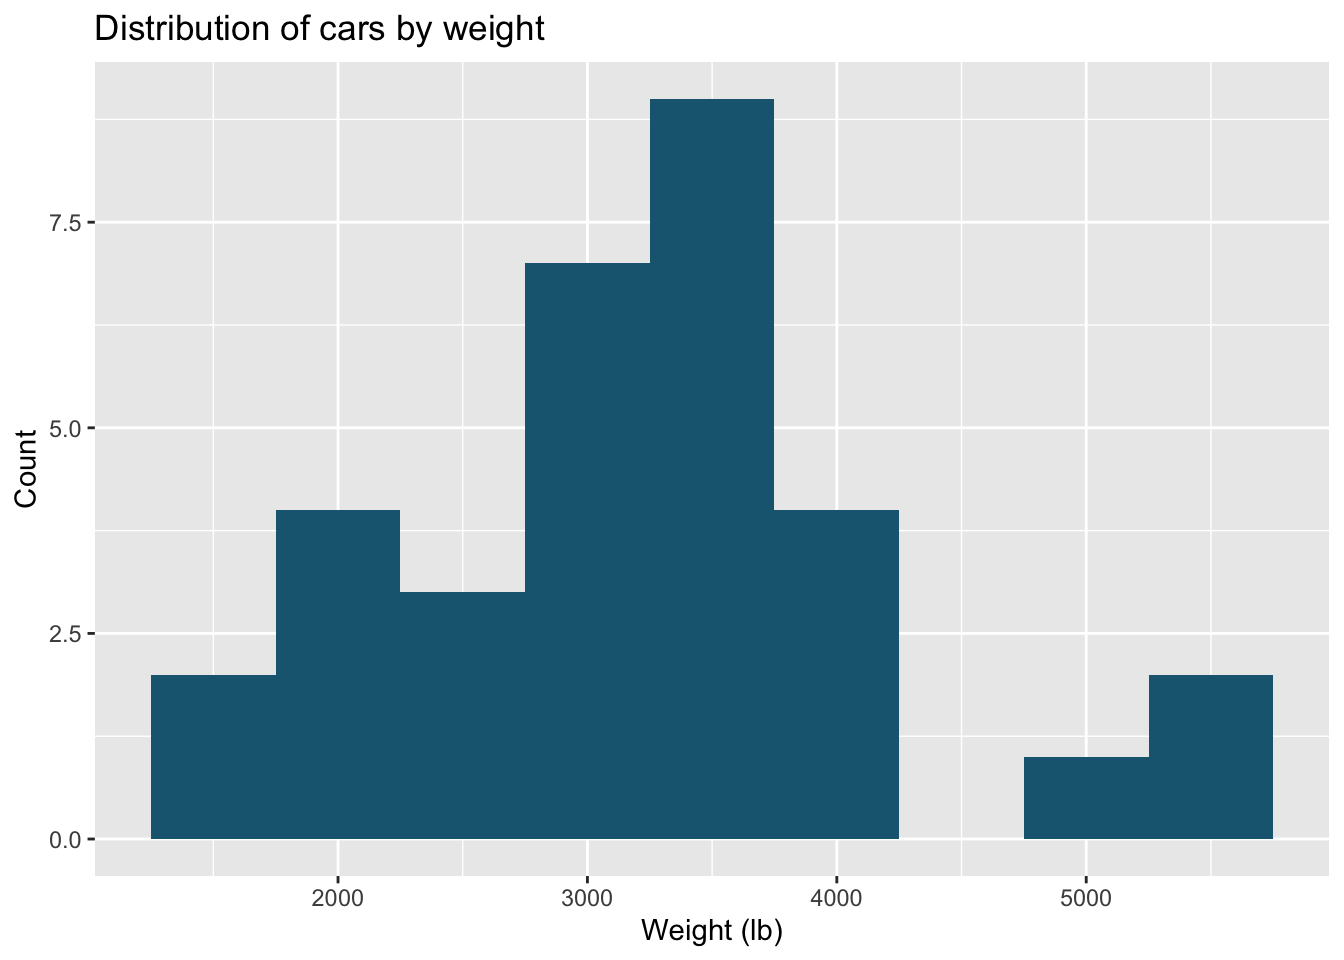
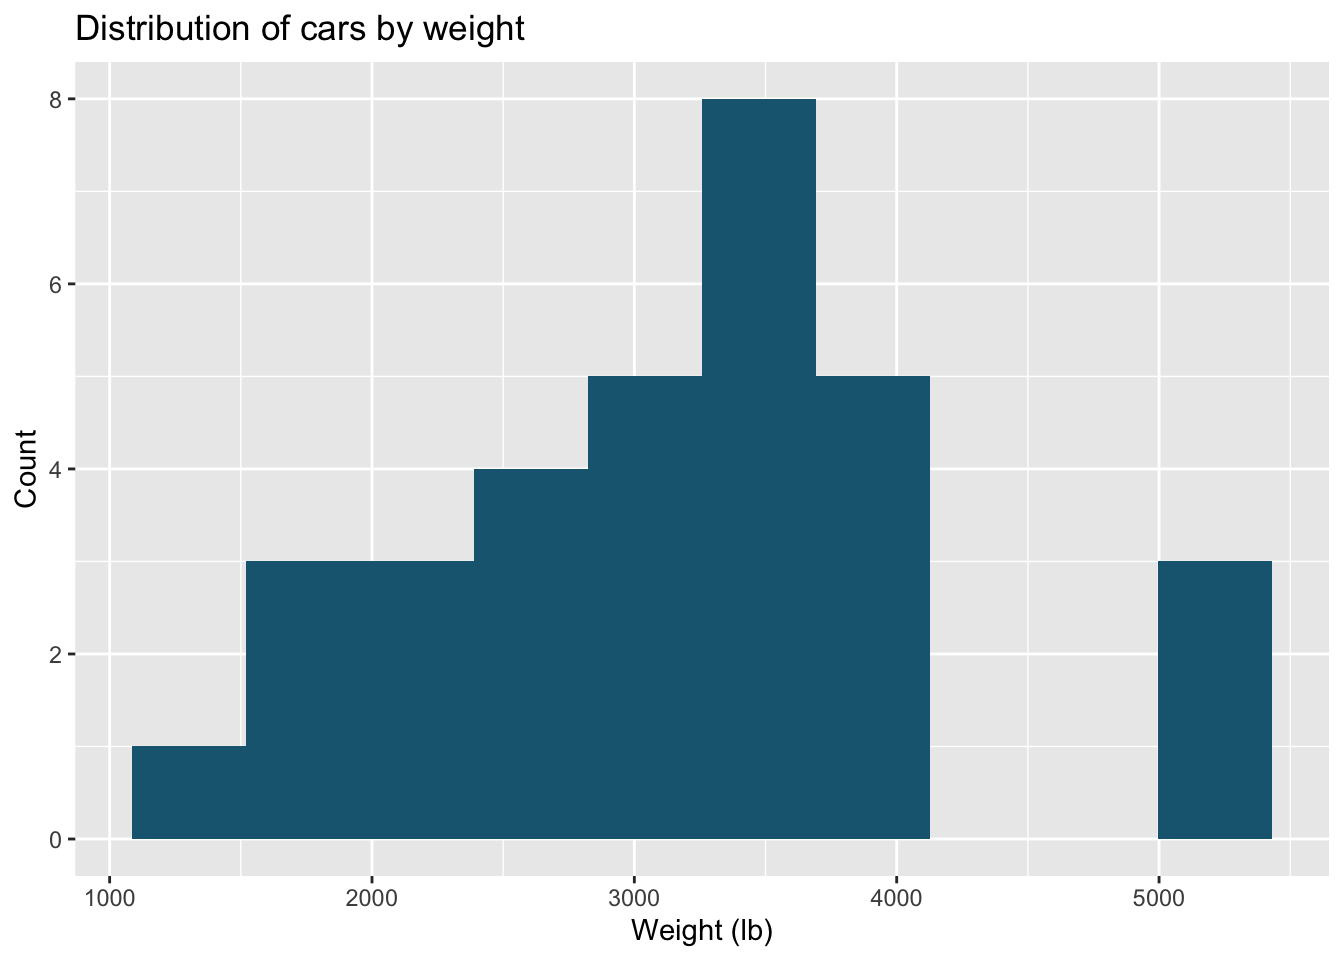
Day 2 AM

diff --git a/demo-vis-techniques.html b/demo-vis-techniques.html
@@ -502,7 +502,7 @@ div.tocify {
 <div class="sourceCode"><pre class="sourceCode r"><code class="sourceCode r">mtcars <span class="op">%&gt;%</span>
 <span class="st">  </span><span class="kw">ggplot</span>(<span class="kw">aes</span>(<span class="dt">x =</span> cyl)) <span class="op">+</span><span class="st"> </span>
 <span class="st">    </span><span class="kw">geom_bar</span>()</code></pre></div>
-<p><img src="demo-vis-techniques_files/figure-html/unnamed-chunk-49-1.png" width="672" /></p>
+<p><img src="demo-vis-techniques_files/figure-html/unnamed-chunk-2-1.png" width="672" /></p>
 </div>
 <div id="a-slightly-prettier-bar-chart-with-color-and-labels" class="section level4">
 <h4>A slightly prettier Bar Chart with color and labels</h4>
@@ -518,7 +518,7 @@ div.tocify {
 <span class="st">  </span><span class="kw">ggtitle</span>(<span class="st">&quot;Count of cars by cylinders&quot;</span>) <span class="op">+</span><span class="st">  </span><span class="co"># Add a title</span>
 <span class="st">  </span>
 <span class="st">  </span><span class="kw">guides</span>(<span class="dt">fill =</span> <span class="ot">FALSE</span>)                     <span class="co"># Remove the legend</span></code></pre></div>
-<p><img src="demo-vis-techniques_files/figure-html/unnamed-chunk-50-1.png" width="672" /></p>
+<p><img src="demo-vis-techniques_files/figure-html/unnamed-chunk-3-1.png" width="672" /></p>
 </div>
 </div>
 <div id="histogram" class="section level3">
@@ -534,20 +534,20 @@ div.tocify {
 <div class="sourceCode"><pre class="sourceCode r"><code class="sourceCode r"><span class="kw">ggplot</span>(mtcars, <span class="kw">aes</span>(<span class="dt">x =</span> wt)) <span class="op">+</span><span class="st"> </span>
 <span class="st">  </span><span class="kw">geom_histogram</span>()</code></pre></div>
 <pre><code>## `stat_bin()` using `bins = 30`. Pick better value with `binwidth`.</code></pre>
-<p><img src="demo-vis-techniques_files/figure-html/unnamed-chunk-51-1.png" width="672" /></p>
+<p><img src="demo-vis-techniques_files/figure-html/unnamed-chunk-4-1.png" width="672" /></p>
 </div>
 <div id="a-better-histogram-with-scaling-10-bins-labels-and-color" class="section level4">
 <h4>A better Histogram with scaling, 10 bins, labels, and color</h4>
 <div class="sourceCode"><pre class="sourceCode r"><code class="sourceCode r"><span class="kw">ggplot</span>(mtcars, <span class="kw">aes</span>(<span class="dt">x =</span> wt<span class="op">*</span><span class="dv">1000</span>)) <span class="op">+</span><span class="st">             </span><span class="co"># Scale wt to lbs</span>
 <span class="st">  </span>
-<span class="st">  </span><span class="kw">geom_histogram</span>(<span class="dt">binwidth =</span> <span class="dv">500</span>,               <span class="co"># Change the number of bins to 10</span>
-                 <span class="dt">fill =</span> <span class="kw">rgb</span>(<span class="fl">0.1</span>, <span class="fl">0.4</span>, <span class="fl">0.5</span>)) <span class="op">+</span><span class="st">  </span><span class="co">#    and fill with a more aesthetically-pleasing color</span>
+<span class="st">  </span><span class="kw">geom_histogram</span>(<span class="dt">bins =</span> <span class="dv">10</span>,                    <span class="co"># Change the number of bins to 10</span>
+                 <span class="dt">fill =</span> <span class="kw">rgb</span>(<span class="fl">0.1</span>, <span class="fl">0.4</span>, <span class="fl">0.5</span>)) <span class="op">+</span><span class="st">  </span><span class="co">#    and fill with more aesthetically-pleasing color</span>
 <span class="st">  </span>
 <span class="st">  </span><span class="kw">xlab</span>(<span class="st">&quot;Weight (lb)&quot;</span>) <span class="op">+</span><span class="st">                        </span><span class="co"># Label the axes</span>
 <span class="st">  </span><span class="kw">ylab</span>(<span class="st">&quot;Count&quot;</span>) <span class="op">+</span><span class="st">                             </span>
 <span class="st">  </span>
 <span class="st">  </span><span class="kw">ggtitle</span>(<span class="st">&quot;Distribution of cars by weight&quot;</span>)    <span class="co"># Add a title</span></code></pre></div>
-<p><img src="demo-vis-techniques_files/figure-html/unnamed-chunk-52-1.png" width="672" /></p>
+<p><img src="demo-vis-techniques_files/figure-html/unnamed-chunk-5-1.png" width="672" /></p>
 </div>
 </div>
 <div id="boxplot" class="section level3">
@@ -563,12 +563,13 @@ div.tocify {
 <h4>A simple boxplot in <code>ggplot2</code></h4>
 <div class="sourceCode"><pre class="sourceCode r"><code class="sourceCode r"><span class="kw">ggplot</span>(mtcars, <span class="kw">aes</span>(<span class="dt">x =</span> <span class="kw">as.factor</span>(cyl), <span class="dt">y =</span> mpg)) <span class="op">+</span><span class="st"> </span>
 <span class="st">  </span><span class="kw">geom_boxplot</span>()</code></pre></div>
-<p><img src="demo-vis-techniques_files/figure-html/unnamed-chunk-53-1.png" width="672" /></p>
+<p><img src="demo-vis-techniques_files/figure-html/unnamed-chunk-6-1.png" width="672" /></p>
 </div>
 <div id="a-better-boxplot-with-original-points-semi-transparent-fill-and-labels" class="section level4">
 <h4>A better boxplot with original points, semi-transparent fill, and labels</h4>
-<div class="sourceCode"><pre class="sourceCode r"><code class="sourceCode r"><span class="kw">library</span>(ggpubr) <span class="co"># Useful library for making &quot;publication-ready&quot; graphics:</span>
-                <span class="co"># We&#39;ll use the stat_compare_means(...) function to add significance</span>
+<div class="sourceCode"><pre class="sourceCode r"><code class="sourceCode r"><span class="kw">library</span>(ggpubr) <span class="co"># Useful library for making &quot;publication-ready&quot; graphics:</span></code></pre></div>
+<pre><code>## Warning: package &#39;ggpubr&#39; was built under R version 3.6.2</code></pre>
+<div class="sourceCode"><pre class="sourceCode r"><code class="sourceCode r">                <span class="co"># We&#39;ll use the stat_compare_means(...) function to add significance</span>
 
 <span class="kw">ggplot</span>(mtcars, <span class="kw">aes</span>(<span class="dt">x =</span> <span class="kw">as.factor</span>(cyl), <span class="dt">y =</span> mpg)) <span class="op">+</span><span class="st"> </span>
 <span class="st">  </span>
@@ -594,7 +595,10 @@ div.tocify {
                                          <span class="kw">c</span>(<span class="st">&quot;6&quot;</span>,<span class="st">&quot;8&quot;</span>)),
                       <span class="dt">method =</span> <span class="st">&quot;t.test&quot;</span>,
                       <span class="kw">aes</span>(<span class="dt">label =</span> ..p.signif..))</code></pre></div>
-<p><img src="demo-vis-techniques_files/figure-html/unnamed-chunk-54-1.png" width="672" /></p>
+<pre><code>## Warning: Using `as.character()` on a quosure is deprecated as of rlang 0.3.0.
+## Please use `as_label()` or `as_name()` instead.
+## This warning is displayed once per session.</code></pre>
+<p><img src="demo-vis-techniques_files/figure-html/unnamed-chunk-7-1.png" width="672" /></p>
 </div>
 </div>
 <div id="scatterplot" class="section level3">
@@ -609,7 +613,7 @@ div.tocify {
 <h4>A simple scatterplot in <code>ggplot2</code></h4>
 <div class="sourceCode"><pre class="sourceCode r"><code class="sourceCode r"><span class="kw">ggplot</span>(mtcars, <span class="kw">aes</span>(<span class="dt">x =</span> wt, <span class="dt">y =</span> mpg)) <span class="op">+</span><span class="st"> </span>
 <span class="st">  </span><span class="kw">geom_point</span>()</code></pre></div>
-<p><img src="demo-vis-techniques_files/figure-html/unnamed-chunk-55-1.png" width="672" /></p>
+<p><img src="demo-vis-techniques_files/figure-html/unnamed-chunk-8-1.png" width="672" /></p>
 </div>
 <div id="a-better-scatterplot-with-scaled-values-shapes-color-and-labels" class="section level4">
 <h4>A better scatterplot with scaled values, shapes, color, and labels</h4>
@@ -631,7 +635,7 @@ div.tocify {
        <span class="dt">y =</span> <span class="st">&quot;Fuel economy (mpg)&quot;</span>) <span class="op">+</span><span class="st">                  </span>
 <span class="st">  </span>
 <span class="st">   </span><span class="kw">ggtitle</span>(<span class="st">&quot;Weight vs. fuel economy by # cylinders&quot;</span>) <span class="co"># Add a title</span></code></pre></div>
-<p><img src="demo-vis-techniques_files/figure-html/unnamed-chunk-56-1.png" width="672" /></p>
+<p><img src="demo-vis-techniques_files/figure-html/unnamed-chunk-9-1.png" width="672" /></p>
 </div>
 </div>
 <div id="scatterplot-matrix-splom" class="section level3">
@@ -643,12 +647,16 @@ div.tocify {
 <div id="a-simple-splom-using-pairs" class="section level4">
 <h4>A simple SPLOM using <code>pairs()</code></h4>
 <div class="sourceCode"><pre class="sourceCode r"><code class="sourceCode r"><span class="kw">pairs</span>(<span class="op">~</span><span class="st"> </span>mpg <span class="op">+</span><span class="st"> </span>wt <span class="op">+</span><span class="st"> </span>disp, <span class="dt">data =</span> mtcars)</code></pre></div>
-<p><img src="demo-vis-techniques_files/figure-html/unnamed-chunk-57-1.png" width="672" /></p>
+<p><img src="demo-vis-techniques_files/figure-html/unnamed-chunk-10-1.png" width="672" /></p>
 </div>
 <div id="a-better-splom-using-ggally" class="section level4">
 <h4>A better SPLOM using <code>GGally</code></h4>
-<div class="sourceCode"><pre class="sourceCode r"><code class="sourceCode r"><span class="kw">library</span>(GGally) <span class="co"># Useful library that extends some of ggplot2&#39;s functionality</span>
-                <span class="co"># We&#39;ll use the ggpairs(...) function to make a classy SPLOM</span>
+<div class="sourceCode"><pre class="sourceCode r"><code class="sourceCode r"><span class="kw">library</span>(GGally) <span class="co"># Useful library that extends some of ggplot2&#39;s functionality</span></code></pre></div>
+<pre><code>## Warning: package &#39;GGally&#39; was built under R version 3.6.2</code></pre>
+<pre><code>## Registered S3 method overwritten by &#39;GGally&#39;:
+##   method from   
+##   +.gg   ggplot2</code></pre>
+<div class="sourceCode"><pre class="sourceCode r"><code class="sourceCode r">                <span class="co"># We&#39;ll use the ggpairs(...) function to make a classy SPLOM</span>
 
 <span class="kw">ggpairs</span>(mtcars, 
         <span class="dt">columns =</span> <span class="kw">c</span>(<span class="st">&quot;mpg&quot;</span>,<span class="st">&quot;disp&quot;</span>,<span class="st">&quot;hp&quot;</span>),         <span class="co"># Select specific columns to compare</span>
@@ -661,7 +669,7 @@ div.tocify {
             <span class="dt">alpha =</span> <span class="fl">0.4</span>)) <span class="op">+</span><span class="st">                    </span><span class="co"># Set to semi-transparent</span>
 <span class="st">  </span>
 <span class="st">  </span><span class="kw">ggtitle</span>(<span class="st">&quot;Fuel economy vs. displacement vs. horsepower by # cylinders&quot;</span>)  <span class="co"># Add a title</span></code></pre></div>
-<p><img src="demo-vis-techniques_files/figure-html/unnamed-chunk-58-1.png" width="672" /></p>
+<p><img src="demo-vis-techniques_files/figure-html/unnamed-chunk-11-1.png" width="672" /></p>
 </div>
 </div>
 <div id="line-chart" class="section level3">
@@ -682,13 +690,13 @@ arbuthnot &lt;-<span class="st"> </span><span class="kw">read.csv</span>(<span c
 arbuthnot <span class="op">%&gt;%</span>
 <span class="kw">ggplot</span>(<span class="kw">aes</span>(<span class="dt">x =</span> year, <span class="dt">y =</span> total)) <span class="op">+</span>
 <span class="st">  </span><span class="kw">geom_line</span>()</code></pre></div>
-<p><img src="demo-vis-techniques_files/figure-html/unnamed-chunk-60-1.png" width="672" /></p>
+<p><img src="demo-vis-techniques_files/figure-html/unnamed-chunk-13-1.png" width="672" /></p>
 </div>
 <div id="a-better-line-chart-built-with-tidy-data" class="section level4">
 <h4>A better line chart, built with tidy data</h4>
-<div class="sourceCode"><pre class="sourceCode r"><code class="sourceCode r"><span class="kw">library</span>(tidyr)
-
-<span class="co"># First, let&#39;s tidy up our data so it&#39;s tall instead of wide</span>
+<div class="sourceCode"><pre class="sourceCode r"><code class="sourceCode r"><span class="kw">library</span>(tidyr)</code></pre></div>
+<pre><code>## Warning: package &#39;tidyr&#39; was built under R version 3.6.2</code></pre>
+<div class="sourceCode"><pre class="sourceCode r"><code class="sourceCode r"><span class="co"># First, let&#39;s tidy up our data so it&#39;s tall instead of wide</span>
 arbuthnot_tidy &lt;-<span class="st"> </span>arbuthnot <span class="op">%&gt;%</span>
 <span class="st">  </span><span class="kw">select</span>(<span class="op">-</span>total) <span class="op">%&gt;%</span>
 <span class="st">  </span><span class="kw">pivot_longer</span>(<span class="dt">names_to =</span> <span class="st">&quot;gender&quot;</span>, <span class="dt">values_to =</span> <span class="st">&quot;count&quot;</span>, <span class="op">-</span>year)
@@ -702,7 +710,7 @@ arbuthnot_tidy &lt;-<span class="st"> </span>arbuthnot <span class="op">%&gt;%</
        <span class="dt">x =</span> <span class="st">&quot;Year&quot;</span>,                                <span class="co"># Label the axes</span>
        <span class="dt">y =</span> <span class="st">&quot;Number of records&quot;</span>) <span class="op">+</span><span class="st">                 </span>
 <span class="st">  </span><span class="kw">ggtitle</span>(<span class="st">&quot;Dr. Arbuthnot&#39;s Baptism Records from 1629-1710 (by Gender)&quot;</span>) <span class="co"># Add a title</span></code></pre></div>
-<p><img src="demo-vis-techniques_files/figure-html/unnamed-chunk-61-1.png" width="672" /></p>
+<p><img src="demo-vis-techniques_files/figure-html/unnamed-chunk-14-1.png" width="672" /></p>
 </div>
 </div>
 </div>
